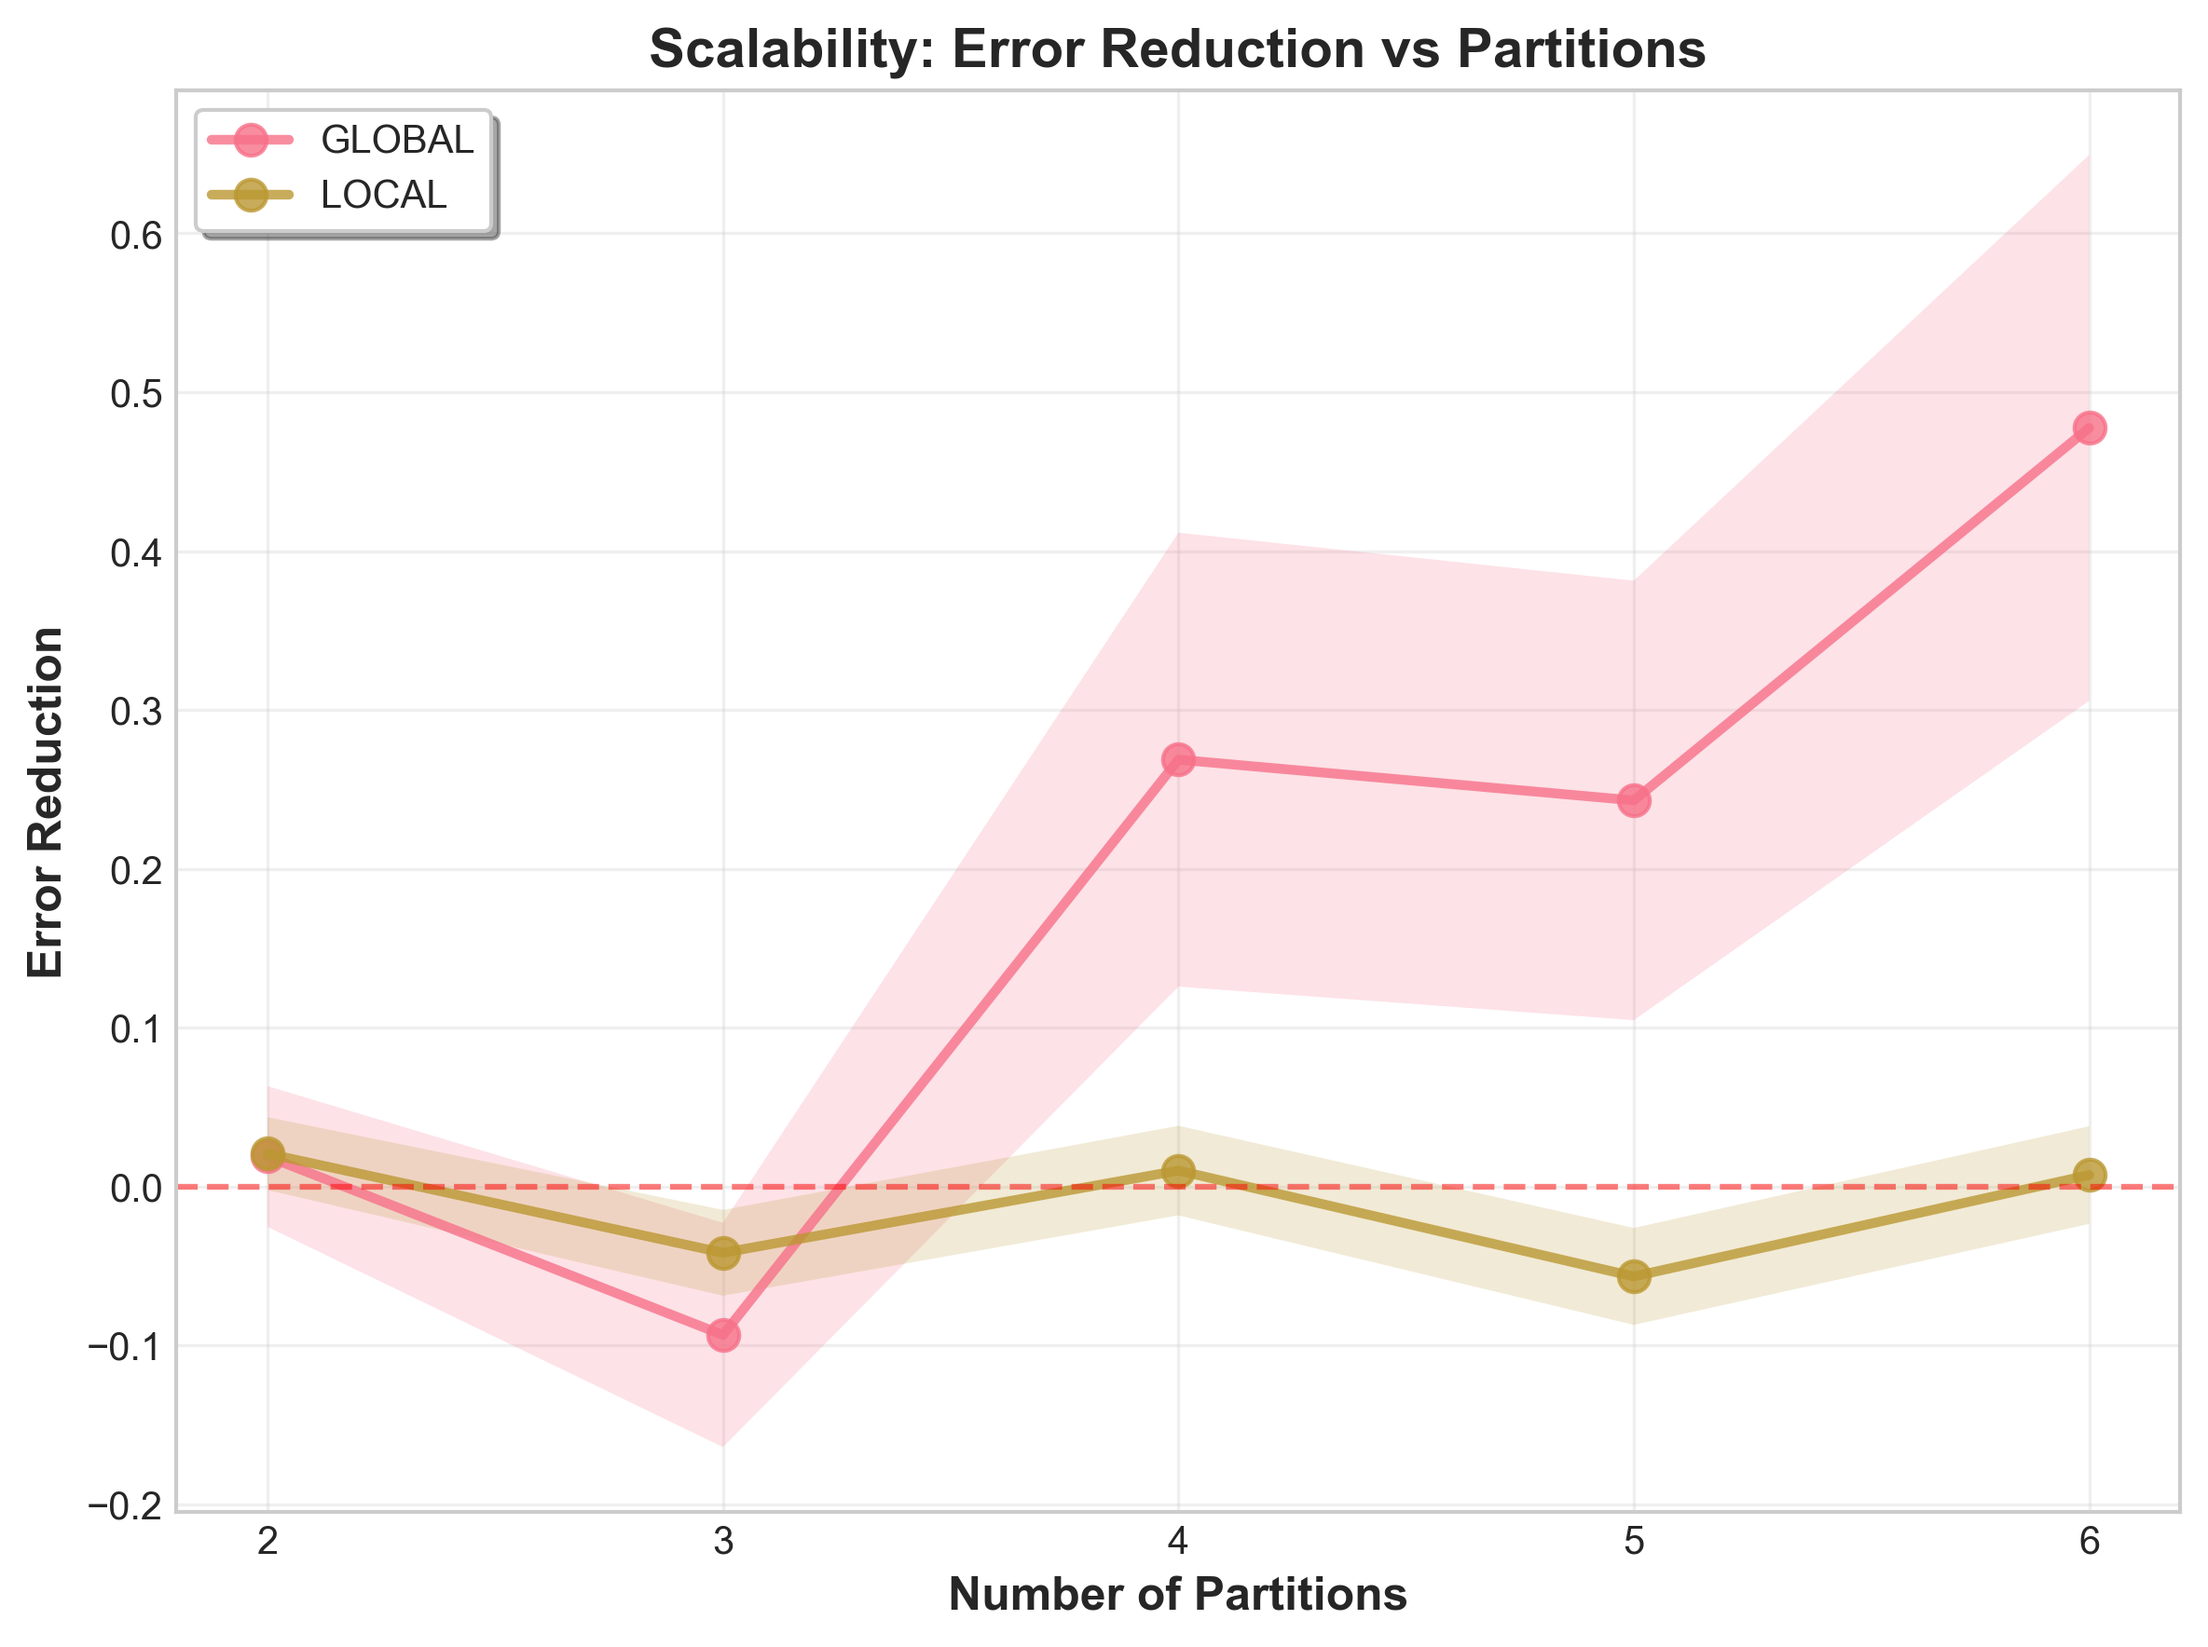
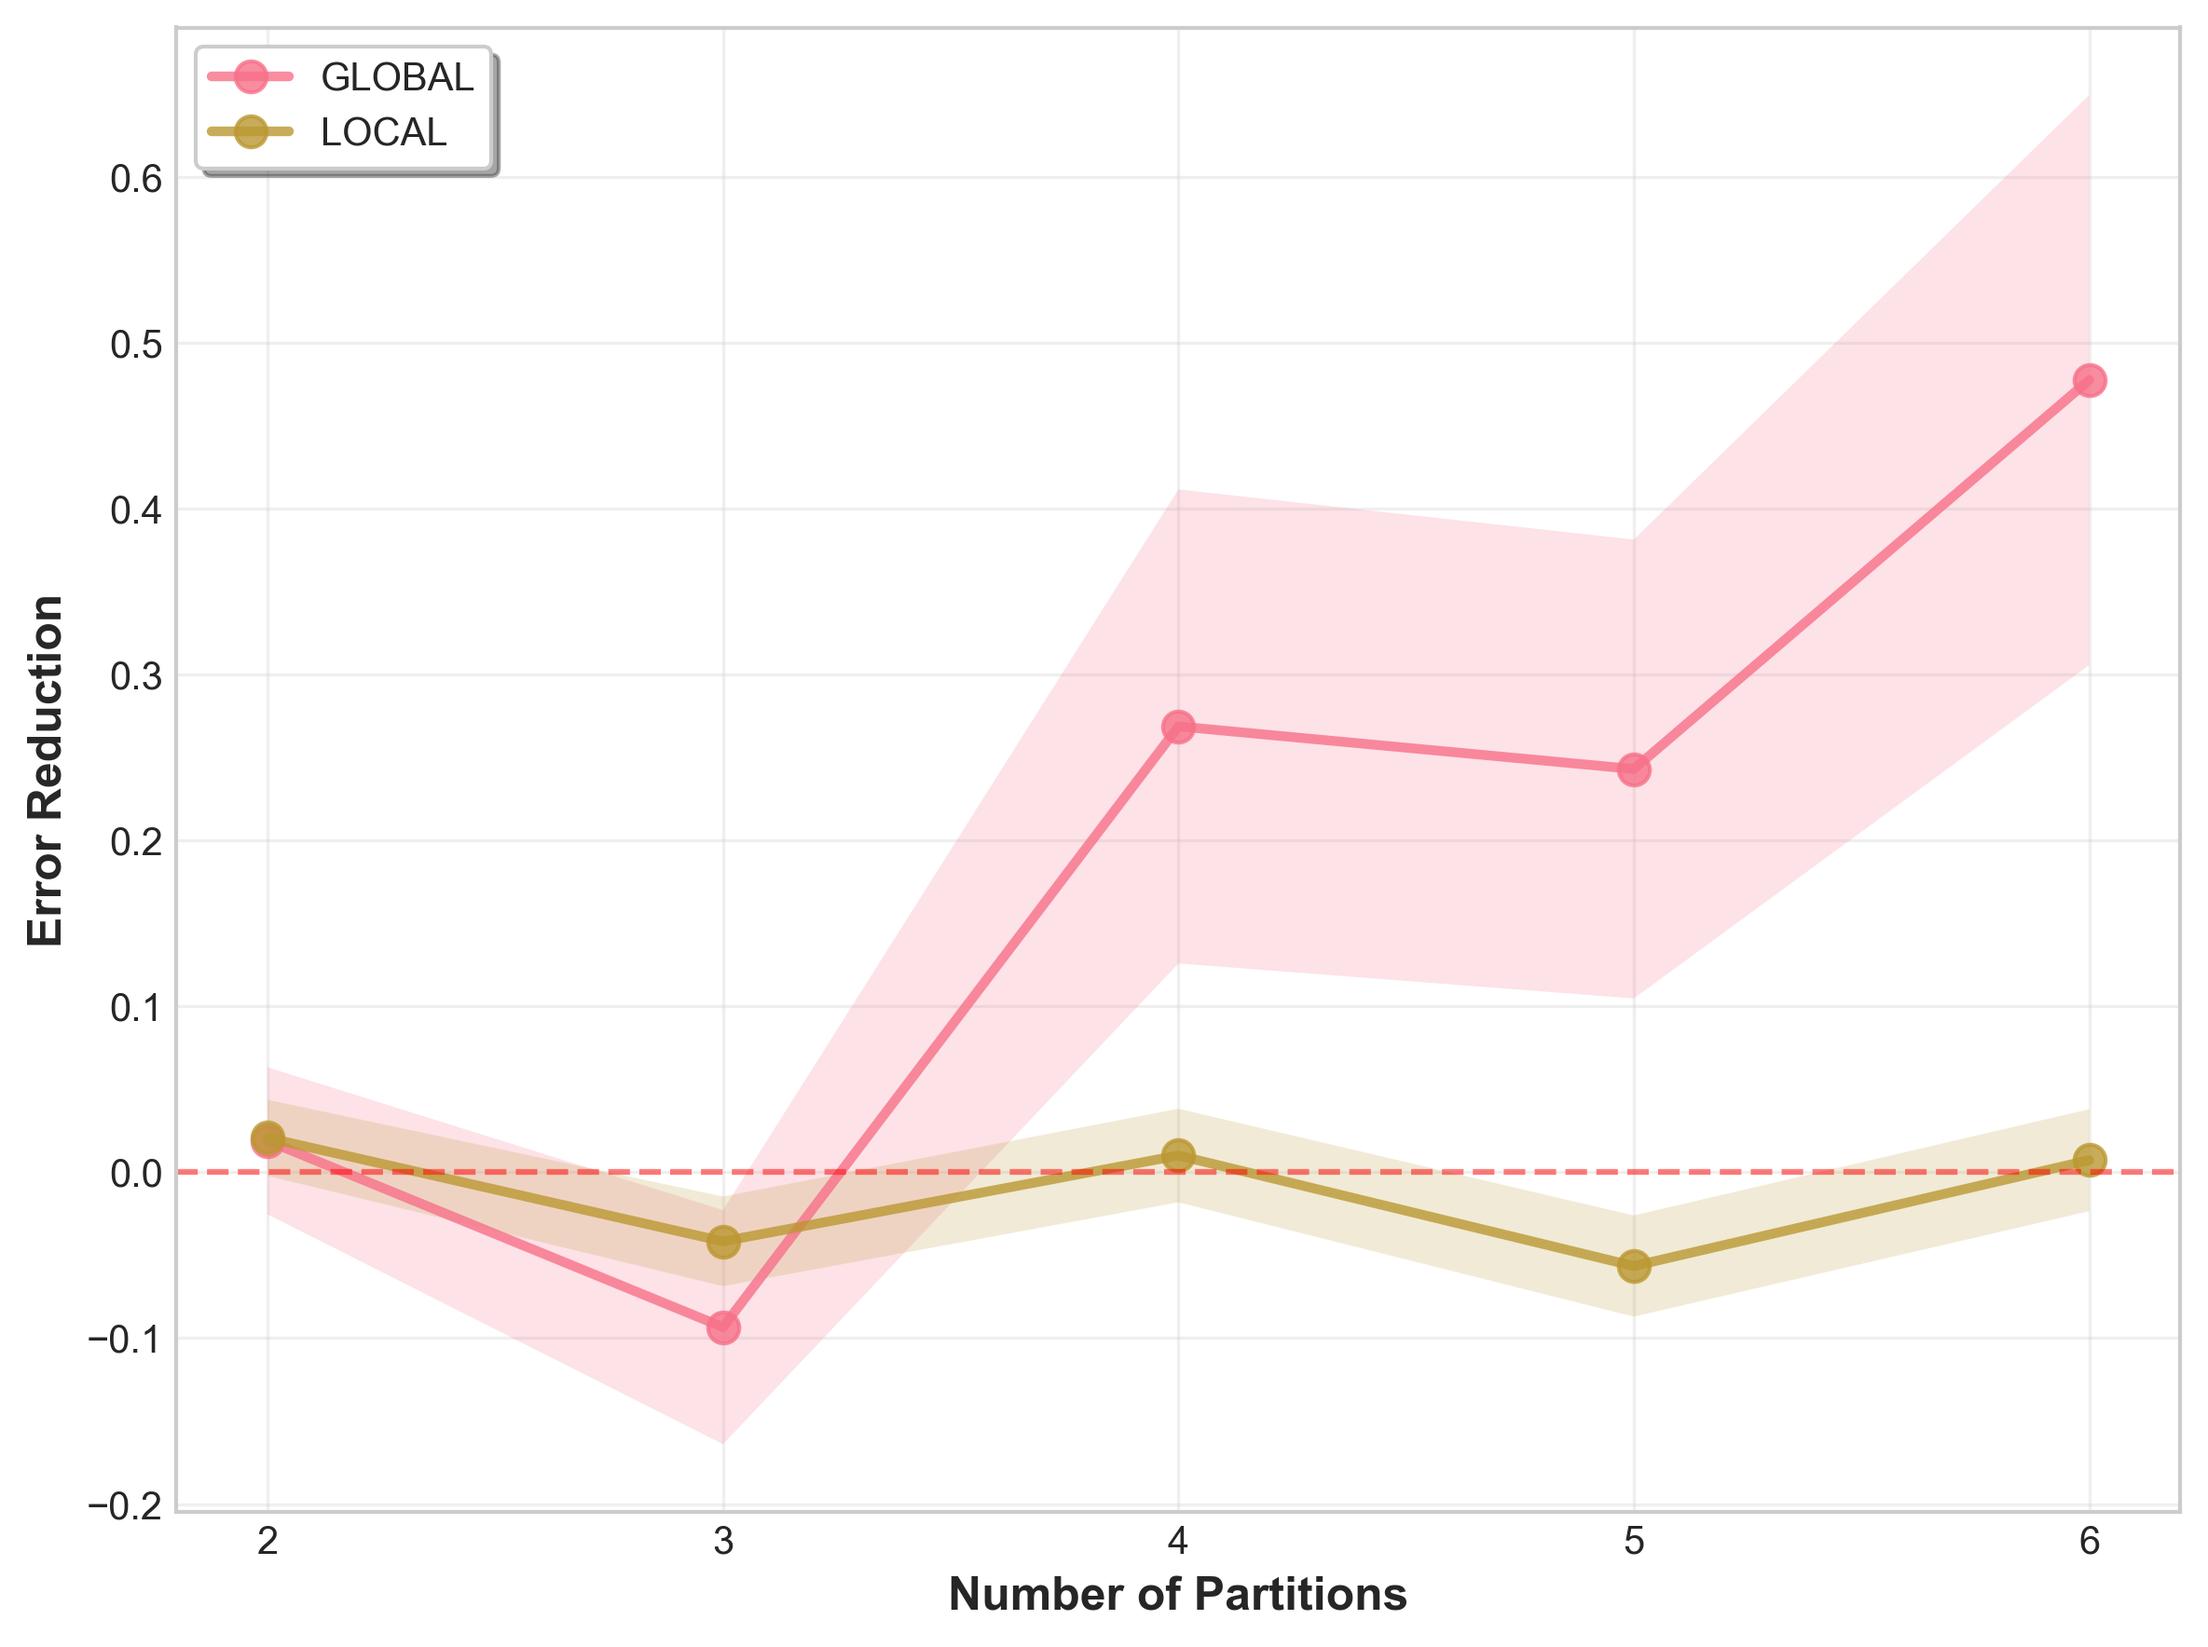
new analyze

diff --git a/new_files/analyze_results.py b/new_files/analyze_results.py
@@ -211,8 +211,7 @@ def plot_baseline_validation(df_full, output_dir='figures'):
         ax.set_xticks(positions)
         ax.set_xticklabels([s.upper() for s in strategies])
         ax.set_ylabel('Error Reduction', fontsize=12, fontweight='bold')
-        ax.set_title('Partition=1: Strategy Comparison\n(Should be identical)', 
-                    fontsize=12, fontweight='bold')
+        # ax.set_title('Partition=1: Strategy Comparison\n(Should be identical)', fontsize=12, fontweight='bold')
         ax.axhline(y=0, color='red', linestyle='--', alpha=0.5)
         ax.grid(True, alpha=0.3, axis='y')
     
@@ -223,8 +222,7 @@ def plot_baseline_validation(df_full, output_dir='figures'):
               linestyle='--', linewidth=2, label=f"Mean: {df_baseline['error_reduction'].mean():.4f}")
     ax.set_xlabel('Error Reduction', fontsize=12, fontweight='bold')
     ax.set_ylabel('Frequency', fontsize=12, fontweight='bold')
-    ax.set_title('Partition=1: Error Reduction Distribution\n(No Distribution)', 
-                fontsize=12, fontweight='bold')
+    # ax.set_title('Partition=1: Error Reduction Distribution\n(No Distribution)', fontsize=12, fontweight='bold')
     ax.legend()
     ax.grid(True, alpha=0.3, axis='y')
     
@@ -257,7 +255,7 @@ def plot_scalability(df, output_dir='figures'):
     
     ax.set_xlabel('Number of Partitions', fontsize=12, fontweight='bold')
     ax.set_ylabel('Error Reduction', fontsize=12, fontweight='bold')
-    ax.set_title('Scalability: Error Reduction vs Partitions', fontsize=14, fontweight='bold')
+    # ax.set_title('Scalability: Error Reduction vs Partitions', fontsize=14, fontweight='bold')
     ax.legend(loc='best', frameon=True, shadow=True)
     ax.grid(True, alpha=0.3)
     ax.axhline(y=0, color='red', linestyle='--', alpha=0.5, linewidth=1.5)
@@ -284,7 +282,7 @@ def plot_scalability(df, output_dir='figures'):
     
     ax.set_xlabel('Number of Partitions', fontsize=12, fontweight='bold')
     ax.set_ylabel('ZNE Error', fontsize=12, fontweight='bold')
-    ax.set_title('Absolute Error vs Partitions', fontsize=14, fontweight='bold')
+    # ax.set_title('Absolute Error vs Partitions', fontsize=14, fontweight='bold')
     ax.legend(loc='best', frameon=True, shadow=True)
     ax.grid(True, alpha=0.3)
     ax.xaxis.set_major_locator(plt.MaxNLocator(integer=True))
@@ -307,7 +305,7 @@ def plot_scalability(df, output_dir='figures'):
         
         ax.set_xlabel('Number of Partitions', fontsize=12, fontweight='bold')
         ax.set_ylabel('Depth Overhead (ratio)', fontsize=12, fontweight='bold')
-        ax.set_title('Circuit Depth Penalty', fontsize=14, fontweight='bold')
+        # ax.set_title('Circuit Depth Penalty', fontsize=14, fontweight='bold')
         ax.legend(loc='best', frameon=True, shadow=True)
         ax.grid(True, alpha=0.3)
         ax.axhline(y=1.0, color='gray', linestyle='--', alpha=0.5, linewidth=1.5)
@@ -337,7 +335,7 @@ def plot_scalability(df, output_dir='figures'):
         
         ax.set_xlabel('Communication Noise Multiplier', fontsize=12, fontweight='bold')
         ax.set_ylabel('Error Reduction', fontsize=12, fontweight='bold')
-        ax.set_title('Network Noise Resistance', fontsize=14, fontweight='bold')
+        # ax.set_title('Network Noise Resistance', fontsize=14, fontweight='bold')
         ax.legend(loc='best', frameon=True, shadow=True)
         ax.grid(True, alpha=0.3)
         ax.axhline(y=0, color='red', linestyle='--', alpha=0.5, linewidth=1.5)
@@ -365,64 +363,54 @@ def plot_scalability(df, output_dir='figures'):
             # Return mean of filtered data, or original mean if too few points remain
             return filtered.mean() if len(filtered) >= 2 else x.mean()
         
-        # Create pivot table with robust mean
-        pivot_data = df.pivot_table(
+        # Create separate pivot tables for global and local strategies
+        df_global = df[df['strategy'] == 'global']
+        df_local = df[df['strategy'] == 'local']
+        
+        pivot_global = df_global.pivot_table(
             values='error_reduction',
             index='num_partitions_tested',
             columns='communication_noise_multiplier',
             aggfunc=robust_mean
         )
         
-        # Create sample count pivot for reference
-        pivot_counts = df.pivot_table(
+        pivot_local = df_local.pivot_table(
             values='error_reduction',
             index='num_partitions_tested',
             columns='communication_noise_multiplier',
-            aggfunc='count'
+            aggfunc=robust_mean
         )
         
-        # Create annotations with value and sample size
-        annotations = []
-        for i in range(len(pivot_data.index)):
-            row = []
-            for j in range(len(pivot_data.columns)):
-                value = pivot_data.iloc[i, j]
-                count = pivot_counts.iloc[i, j]
-                if pd.notna(value) and pd.notna(count):
-                    row.append(f'{value:.3f}\n(n={int(count)})')
-                else:
-                    row.append('')
-            annotations.append(row)
-        
-        # Figure 2b: Error Reduction Heatmap (with outlier filtering)
+        # Figure 2b: Global Strategy Heatmap
         fig, ax = plt.subplots(figsize=(8, 6))
-        sns.heatmap(pivot_data, annot=np.array(annotations), fmt='', cmap='RdYlGn', center=0,
+        sns.heatmap(pivot_global, annot=True, fmt='.3f', cmap='RdYlGn', center=0,
                    ax=ax, cbar_kws={'label': 'Error Reduction'}, 
-                   vmin=-0.1, vmax=0.1)  # Fixed scale for better comparison
+                   vmin=-0.1, vmax=0.2)
         ax.set_xlabel('Communication Noise Multiplier', fontsize=12, fontweight='bold')
         ax.set_ylabel('Number of Partitions', fontsize=12, fontweight='bold')
-        ax.set_title('Error Reduction Heatmap', fontsize=14, fontweight='bold')
+        # ax.set_title('Error Reduction Heatmap: Global ZNE', fontsize=14, fontweight='bold')
         
         plt.tight_layout()
-        filepath = Path(output_dir) / 'fig2b_error_reduction_heatmap.png'
+        filepath = Path(output_dir) / 'fig2b_error_reduction_heatmap_global.png'
         plt.savefig(filepath, dpi=300, bbox_inches='tight')
         print(f"✓ Saved: {filepath}")
         plt.close()
         
-        # Figure 2c: Sample Size Distribution Heatmap
+        # Figure 2c: Local Strategy Heatmap
         fig, ax = plt.subplots(figsize=(8, 6))
-        sns.heatmap(pivot_counts, annot=True, fmt='g', cmap='Blues', 
-                   ax=ax, cbar_kws={'label': 'Sample Size'})
+        sns.heatmap(pivot_local, annot=True, fmt='.3f', cmap='RdYlGn', center=0,
+                   ax=ax, cbar_kws={'label': 'Error Reduction'}, 
+                   vmin=-0.1, vmax=0.2)
         ax.set_xlabel('Communication Noise Multiplier', fontsize=12, fontweight='bold')
         ax.set_ylabel('Number of Partitions', fontsize=12, fontweight='bold')
-        ax.set_title('Sample Size Distribution', fontsize=14, fontweight='bold')
+        # ax.set_title('Error Reduction Heatmap: Local ZNE', fontsize=14, fontweight='bold')
         
         plt.tight_layout()
-        filepath = Path(output_dir) / 'fig2c_sample_size_heatmap.png'
+        filepath = Path(output_dir) / 'fig2c_error_reduction_heatmap_local.png'
         plt.savefig(filepath, dpi=300, bbox_inches='tight')
         print(f"✓ Saved: {filepath}")
-        print(f"  Sample sizes range: {int(pivot_counts.min().min())}-{int(pivot_counts.max().max())}")
         plt.close()
+
     
     # Figure 3a: Error Reduction by Local Noise
     if 'local_noise' in df.columns:
@@ -442,7 +430,7 @@ def plot_scalability(df, output_dir='figures'):
         
         ax.set_xlabel('Local Noise Level', fontsize=12, fontweight='bold')
         ax.set_ylabel('Error Reduction', fontsize=12, fontweight='bold')
-        ax.set_title('Performance vs Local Noise', fontsize=14, fontweight='bold')
+        # ax.set_title('Performance vs Local Noise', fontsize=14, fontweight='bold')
         ax.legend(loc='best', frameon=True, shadow=True)
         ax.grid(True, alpha=0.3)
         ax.axhline(y=0, color='red', linestyle='--', alpha=0.5, linewidth=1.5)
@@ -459,7 +447,7 @@ def plot_scalability(df, output_dir='figures'):
         sns.boxplot(data=df_plot, x='strategy', y='error_reduction', ax=ax, palette='Set2')
         ax.set_xlabel('Strategy', fontsize=12, fontweight='bold')
         ax.set_ylabel('Error Reduction', fontsize=12, fontweight='bold')
-        ax.set_title('Strategy Performance Distribution', fontsize=14, fontweight='bold')
+        # ax.set_title('Strategy Performance Distribution', fontsize=14, fontweight='bold')
         ax.axhline(y=0, color='red', linestyle='--', alpha=0.5, linewidth=1.5)
         ax.grid(True, alpha=0.3, axis='y')
         
@@ -489,7 +477,7 @@ def plot_scalability(df, output_dir='figures'):
         
         ax.set_xlabel('Number of Partitions', fontsize=12, fontweight='bold')
         ax.set_ylabel('Error Reduction', fontsize=12, fontweight='bold')
-        ax.set_title('Performance by Algorithm Family', fontsize=14, fontweight='bold')
+        # ax.set_title('Performance by Algorithm Family', fontsize=14, fontweight='bold')
         ax.legend(loc='best', frameon=True, shadow=True)
         ax.grid(True, alpha=0.3)
         ax.axhline(y=0, color='red', linestyle='--', alpha=0.5, linewidth=1.5)
@@ -523,8 +511,7 @@ def plot_scalability(df, output_dir='figures'):
             
             ax.set_xlabel('Number of Partitions', fontsize=12, fontweight='bold')
             ax.set_ylabel('Error Reduction', fontsize=12, fontweight='bold')
-            ax.set_title(f'Strategy Comparison: {family.upper()} Circuits', 
-                        fontsize=14, fontweight='bold')
+            # ax.set_title(f'Strategy Comparison: {family.upper()} Circuits', fontsize=14, fontweight='bold')
             ax.legend(loc='best', frameon=True, shadow=True)
             ax.grid(True, alpha=0.3)
             ax.axhline(y=0, color='red', linestyle='--', alpha=0.5, linewidth=1.5)
